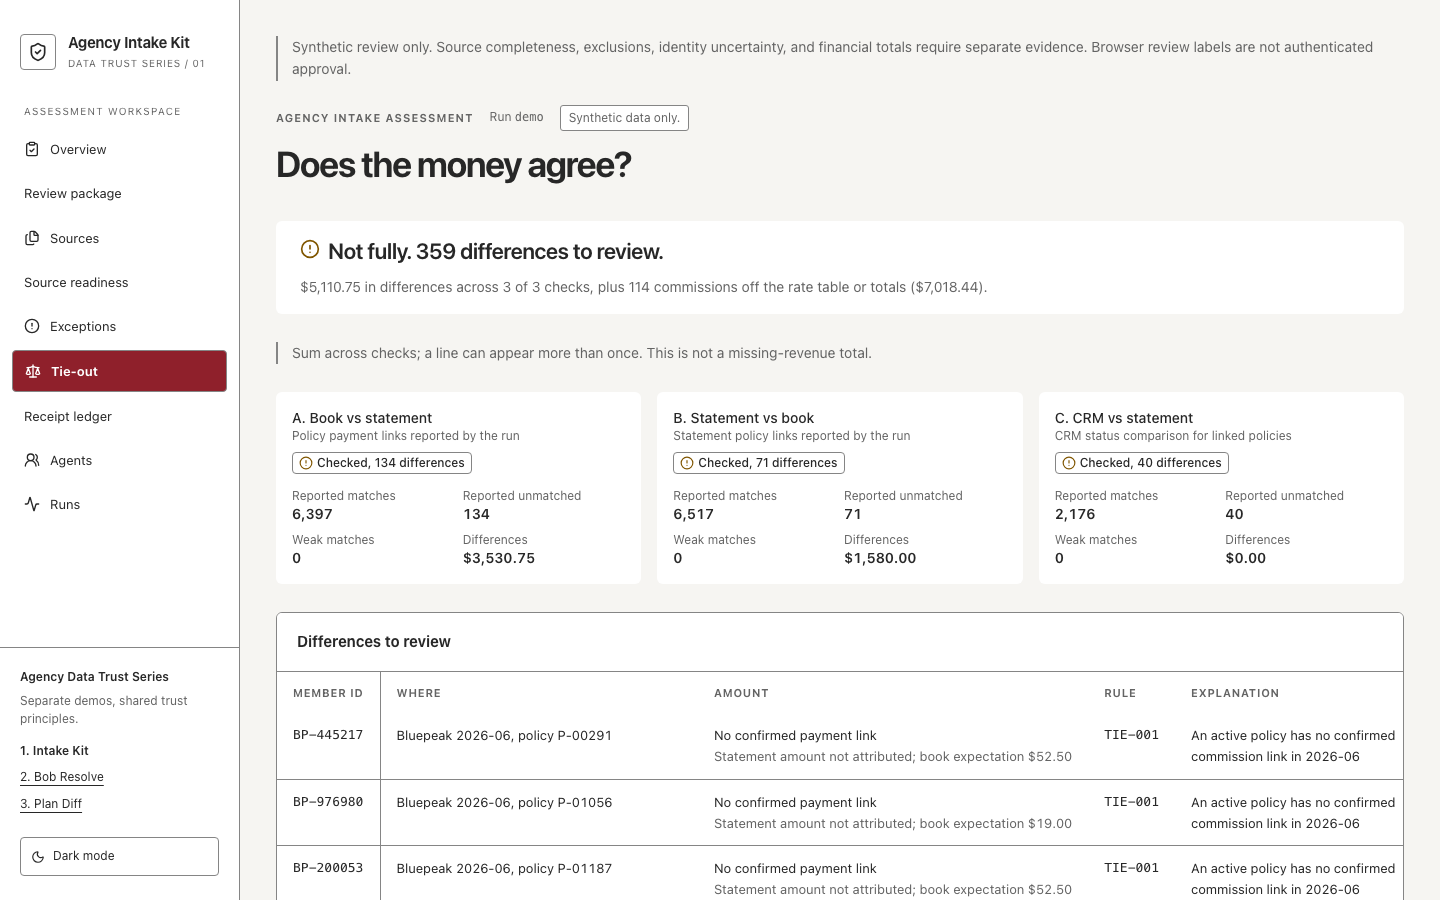
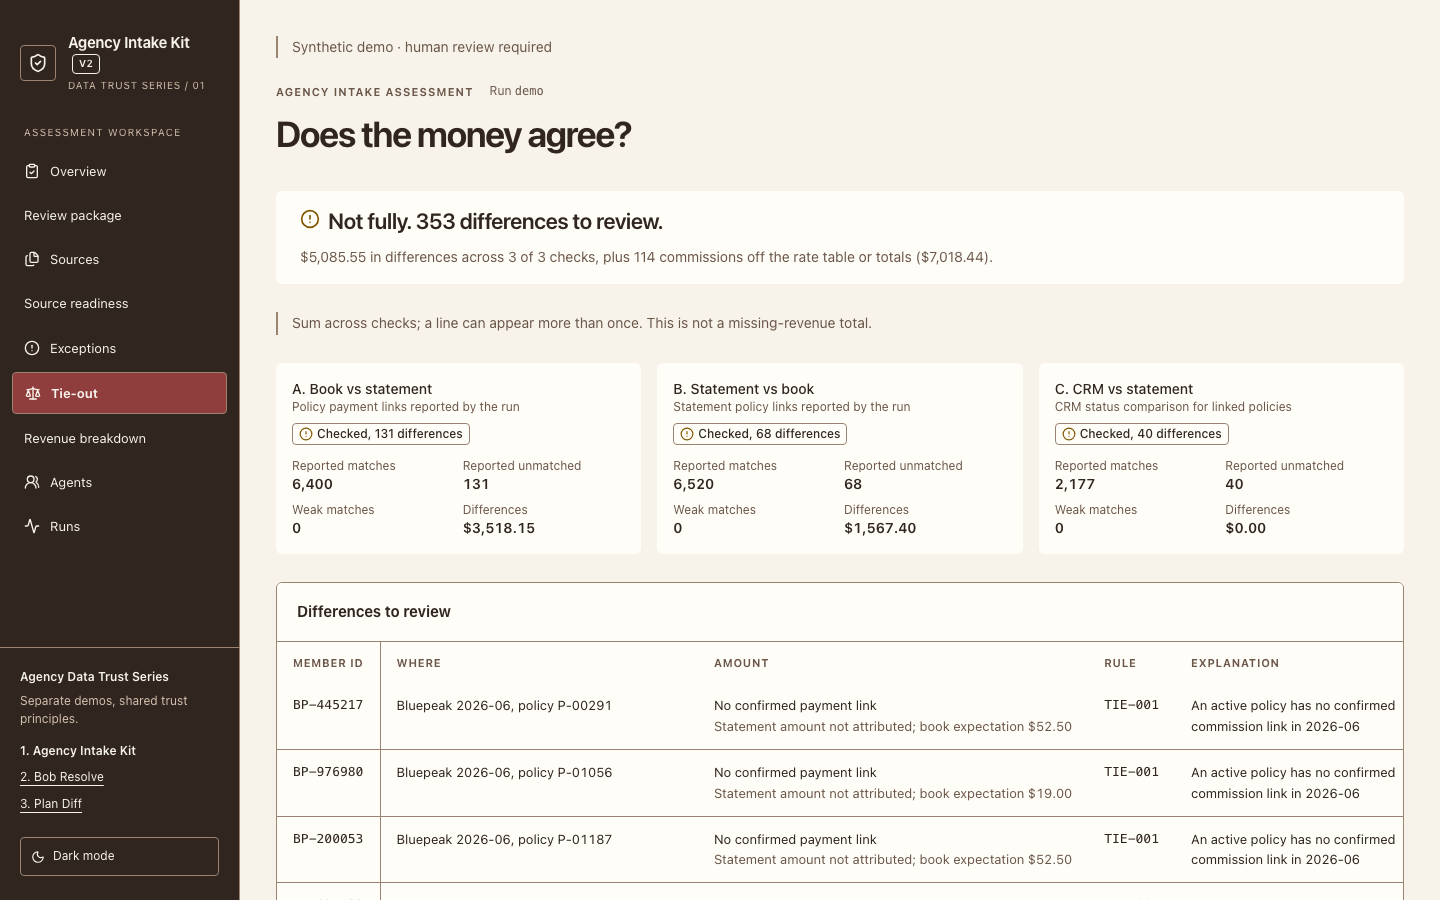
Refresh README screenshots and demo GIF to the current demo run
Regenerate the README images and demo GIF after the orphan-match fix
(308 errors, 423 warnings, 12,836 clean rows, review-before-handoff framing).
Narrow the Overview first-screen check to the answer and the four main
Load quality tiles, as approved by Alex, and update README and docs wording
that still quoted the old go-live framing.

diff --git a/dashboard/e2e/shots.spec.ts b/dashboard/e2e/shots.spec.ts
@@ -37,12 +37,16 @@ for (const { name, path, question } of PAGES) {
     await open(page, path, question);
     await expectNoSidewaysScroll(page);
     if (name === "overview") {
-      // The answer and every tile fit on one screen at desktop width. The answer sits above
-      // the tiles, so the lowest tile edge bounds both. Evidence tables below may scroll.
-      const tiles = page.locator(".metric-tile");
-      expect(await tiles.count()).toBeGreaterThanOrEqual(5);
+      // The readiness answer and the four main quality tiles fit on one screen at desktop
+      // width. Financial checks and evidence tables below them may scroll.
+      await expect(page.getByText("Review required before handoff.")).toBeVisible();
+      const answer = await page.getByRole("region", { name: "Run status" }).boundingBox();
+      expect(answer).not.toBeNull();
+      expect(answer!.y + answer!.height).toBeLessThanOrEqual(DESKTOP.height);
+      const tiles = page.getByRole("region", { name: "Load quality" }).locator(".metric-tile");
+      expect(await tiles.count()).toBe(4);
       const bottoms = await tiles.evaluateAll((els) => els.map((el) => el.getBoundingClientRect().bottom));
-      expect(Math.max(...bottoms)).toBeLessThanOrEqual(DESKTOP.height);
+      for (const bottom of bottoms) expect(bottom).toBeLessThanOrEqual(DESKTOP.height);
     }
     await page.screenshot({ path: `${OUT}/${name}-1440.png`, animations: "disabled" });
   });

diff --git a/README.md b/README.md
@@ -25,21 +25,21 @@ Start the [three-demo walkthrough](docs/demo-walkthrough.md): [1. Intake Kit](ht
 
 Canonical locks are `engine/uv.lock` and `dashboard/package-lock.json`. The public dashboard and local CLI are separate surfaces; the [threat boundaries](SECURITY.md#threat-boundaries) apply to both.
 
-![Overview page: a status banner answering whether the agency can go live, with counts of blockers, errors, and warnings](docs/screenshots/overview-1440.png)
+![Overview page: a data-check result saying what needs review before handoff, with counts of blockers, errors, warnings, and clean rows](docs/screenshots/overview-1440.png)
 
 ![Demo: the Overview page, then the Exceptions page, then the Tie-out page](docs/screenshots/demo.gif)
 
 ## Two-minute tour
 
 1. Open the [live demo](https://agency-intake-kit.vercel.app), which starts on the Overview page.
-2. Read the answer at the top: "Yes, with fixes to review," with 0 blockers, 308 errors, and 423 warnings.
+2. Read the answer at the top: "Review required before handoff," with 0 blockers, 308 errors, and 423 warnings.
 3. Open Exceptions to see every problem sorted by severity, with its rule and source file.
 4. Click any row to open the drawer, which shows the suggested fix and the exact file, sheet, and row the problem came from.
 5. Open Tie-out and find the $61.05 that Harborline paid in August for a member who is on no policy in the book.
 
 ## What this is
 
-When an insurance agency is bought, its records arrive as a pile of mismatched files: a CRM export, an enrollment platform export, carrier commission statements, and an agent roster kept by hand. Someone then checks them by hand for weeks, and nothing downstream, human or AI, can act on data nobody has checked. This kit takes that pile and, in one command, answers three questions: can this book go live in our systems, does the money agree, and was every policy sold by an agent allowed to sell it.
+When an insurance agency is bought, its records arrive as a pile of mismatched files: a CRM export, an enrollment platform export, carrier commission statements, and an agent roster kept by hand. Someone then checks them by hand for weeks, and nothing downstream, human or AI, can act on data nobody has checked. This kit takes that pile and, in one command, answers three questions: what needs review before this book is handed off, does the money agree, and was every policy sold by an agent allowed to sell it.
 
 - **Reads the files as they come**, with odd encodings, title rows, total rows, and Excel dates.
 - **Maps columns to one standard format**: a dictionary first, then Jev, then a person.
@@ -53,7 +53,7 @@ I am Alex Munzon, a UCLA business economics student. I built this as a working a
 
 ## Who it is for
 
-- **Agency owner or acquirer:** one answer, can this agency go live, and if not, why not.
+- **Agency owner or acquirer:** one answer: what needs review before handoff, and why.
 - **Integration specialist:** every problem, how serious it is, the exact source row, and how to fix it, in priority order.
 - **Finance or M&A analyst:** commission differences in dollars by carrier and agent.
 - **Compliance lead:** which agents wrote business they were not ready to sell or licensed for.
@@ -97,7 +97,7 @@ Every page answers its question at the top before showing detail. A check that d
 
 | Page | Question it answers |
 |---|---|
-| Overview | Can this agency go live? |
+| Overview | What needs review before handoff? |
 | Sources | Did we receive every file, and did each one read cleanly? |
 | Exceptions | What needs fixing, in what order, and how? |
 | Tie-out | Does the money agree across the book, the statements, and the CRM? |

diff --git a/CHANGELOG.md b/CHANGELOG.md
@@ -2,6 +2,7 @@
 
 ## Unreleased
 
+- Refresh the README screenshots and demo GIF so they show the current demo run: 308 errors, 423 warnings, 12,836 clean rows, Tie-out 131 and 68 differences, and the headline "What needs review before handoff?". The Overview screenshot check now requires the readiness answer and the four main quality tiles (blockers, errors, warnings, clean rows) to fit on the first screen, since the financial checks now sit below them. Replace the old "Can this agency go live?" and "Yes, with fixes to review" wording in the README, docs/design.md and docs/outreach.md, including the Overview image description.
 - Fix a commission line being held back as a name and birth date conflict when both its member ID and its policy number point to the same single policy whose client record is missing (an orphan policy, REF-001) and the name and birth date match a sibling policy of the same person. An unknown person cannot contradict both strong keys, so the line now links to the orphan policy and would raise TIE-003 if paid off schedule. A match on only one strong key, or a policy whose client record exists with a different name or birth date, still conflicts. In the demo fixture this links the three Meridian Care P-01324 lines and removes their six follow-on TIE-001 and TIE-002 exceptions (711 to 705 triage exceptions, still 157 grouped Jev calls).
 - Add an explicit synthetic package example generated from the unchanged committed Intake run, with the same artifact validation and same-run continuity checks as uploads. Disable empty Clear actions, support cancelling an initial load, and preserve unavailable evidence and valid snapshots after failed replacements.
 - Lead Revenue breakdown with exact signed active totals, unclassified amounts, category evidence and source rows. Retain receipt history and hashes in native disclosures, with readable UTC times and exact original timestamps. No calculation, rule or frozen fixture changes.

diff --git a/docs/outreach.md b/docs/outreach.md
@@ -24,7 +24,7 @@ Alex
 **Check before sending:**
 - The CRM point is from Alex's call notes (ROADMAP section 2). Do not put words in George's mouth beyond that.
 - "717 planted mistakes" and "no false alarms" are measured on synthetic data (README Results: 22 scored types, 0 false alarms on 11,234 clean rows). The generator also plants identity mistakes this kit reports but does not score, which is why the note says "built to catch".
-- Open the live demo first and confirm it shows the real demo run (the Overview should say "Yes, with fixes to review.").
+- Open the live demo first and confirm it shows the real demo run (the Overview should say "Review required before handoff.").
 
 ## 2. LinkedIn post
 

diff --git a/docs/design.md b/docs/design.md
@@ -6,7 +6,7 @@ The dashboard is for an agency owner who has never seen a data pipeline and for 
 
 | Page | Question on the page | Screenshot |
 |---|---|---|
-| Overview | Can this agency go live? | `screenshots/overview-1440.png`, `overview-375.png`, `overview-dark.png` |
+| Overview | What needs review before handoff? | `screenshots/overview-1440.png`, `overview-375.png`, `overview-dark.png` |
 | Sources | What did we receive, and did it read cleanly? | `screenshots/sources-1440.png` |
 | Exceptions | What needs fixing, in what order, and how? | `screenshots/exceptions-1440.png` |
 | Tie-out | Does the money agree? | `screenshots/tie-out-1440.png` |
